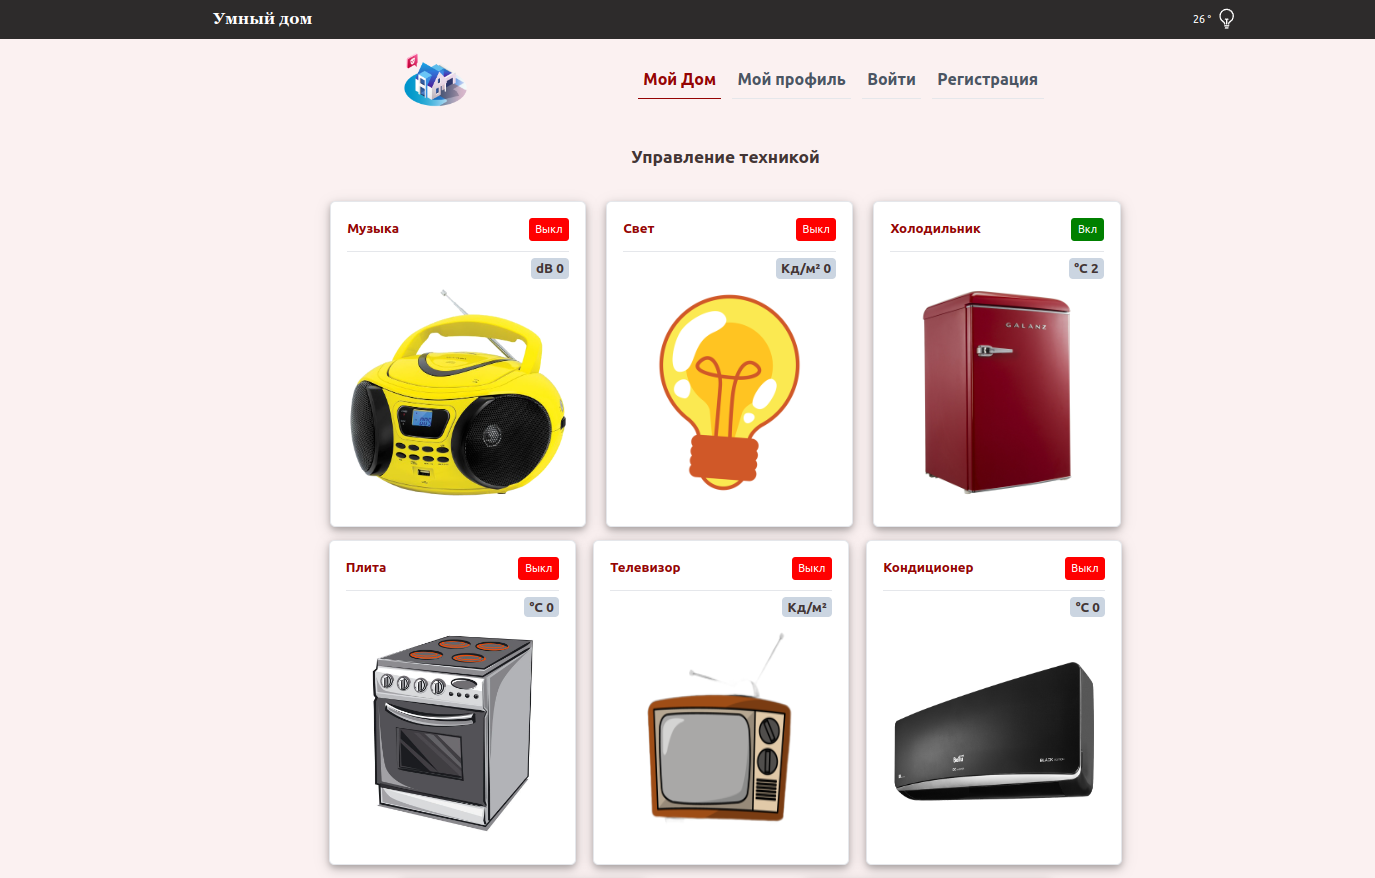
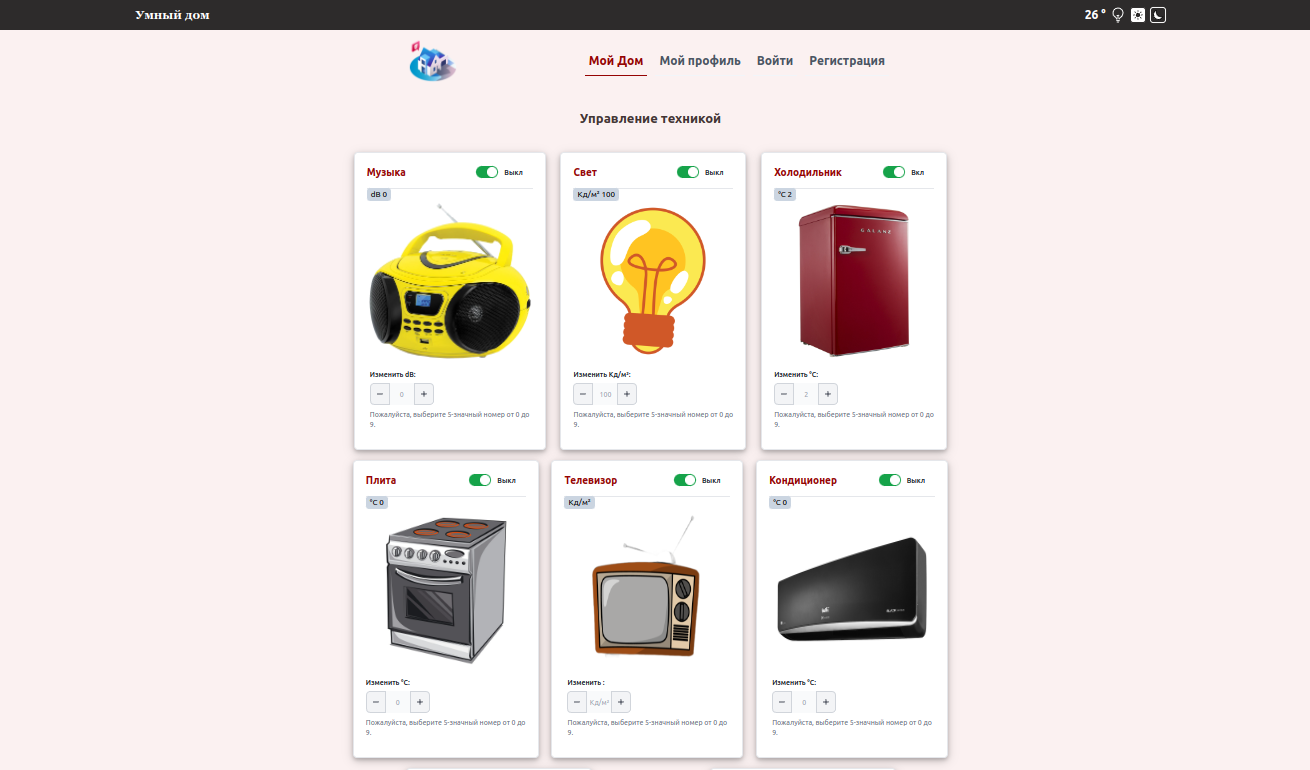
updated readme

Changed region(s): [[0.2443, 0.2182, 0.8244, 1.0], [0.0, 0.0, 1.0, 0.187]]

diff --git a/src/components/Card.vue b/src/components/Card.vue
@@ -9,11 +9,11 @@ defineProps({
 
 const updateStatus = async (id) => {
   try {
-    await axios.patch(
+    let item = await axios.patch(
       "https://212d693d0d677138.mokky.dev/instruments/" + id,
       {
         // status: !item.status,
-        value: 0,
+        status: !item.status,
       }
     );
 
@@ -34,8 +34,12 @@ const updateStatus = async (id) => {
       </div>
       <label class="inline-flex items-center me-5 cursor-pointer">
         <input
-        @change="updateStatus(item.id)"
-         type="checkbox" value="" class="sr-only peer" checked />
+          @change="updateStatus(item.id)"
+          type="checkbox"
+          value=""
+          class="sr-only peer"
+          checked
+        />
         <div
           class="relative w-11 h-6 bg-gray-200 rounded-full peer dark:bg-gray-700 peer-focus:ring-4 peer-focus:ring-green-300 dark:peer-focus:ring-green-800 peer-checked:after:translate-x-full rtl:peer-checked:after:-translate-x-full peer-checked:after:border-white after:content-[''] after:absolute after:top-0.5 after:start-[2px] after:bg-white after:border-gray-300 after:border after:rounded-full after:h-5 after:w-5 after:transition-all dark:border-gray-600 peer-checked:bg-green-600"
         ></div>
@@ -91,7 +95,7 @@ const updateStatus = async (id) => {
           data-input-counter
           aria-describedby="helper-text-explanation"
           class="bg-gray-50 border-x-0 border-gray-300 h-11 text-center text-gray-900 text-sm focus:ring-blue-500 focus:border-blue-500 block w-full py-2.5 dark:bg-gray-700 dark:border-gray-600 dark:placeholder-gray-400 dark:text-white dark:focus:ring-blue-500 dark:focus:border-blue-500"
-          placeholder="999"
+          :placeholder="item.value"
           required
         />
         <button

diff --git a/src/assets/main.css b/src/assets/main.css
@@ -9,6 +9,6 @@
     }
     .header-link{
         @apply py-3 px-2 text-gray-600 text-2xl font-semibold 
-        hover:text-gray-400 mx-2 border-b-2 border-opacity-0
+        hover:text-gray-500 mx-2 border-b-2 border-b-slate-100
     }
 }
